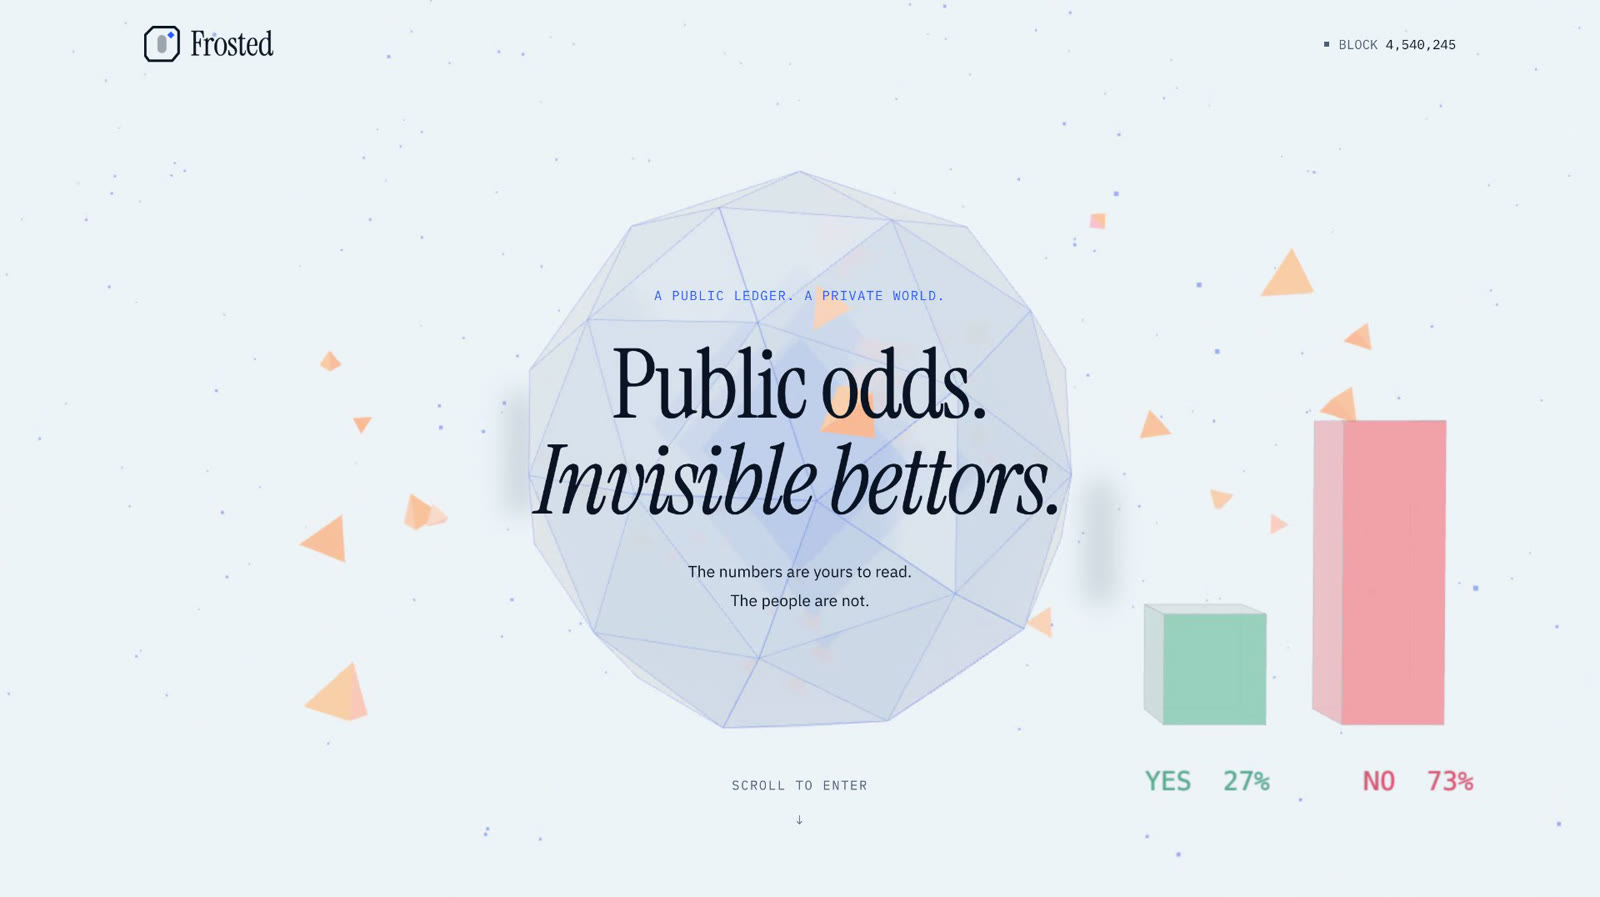
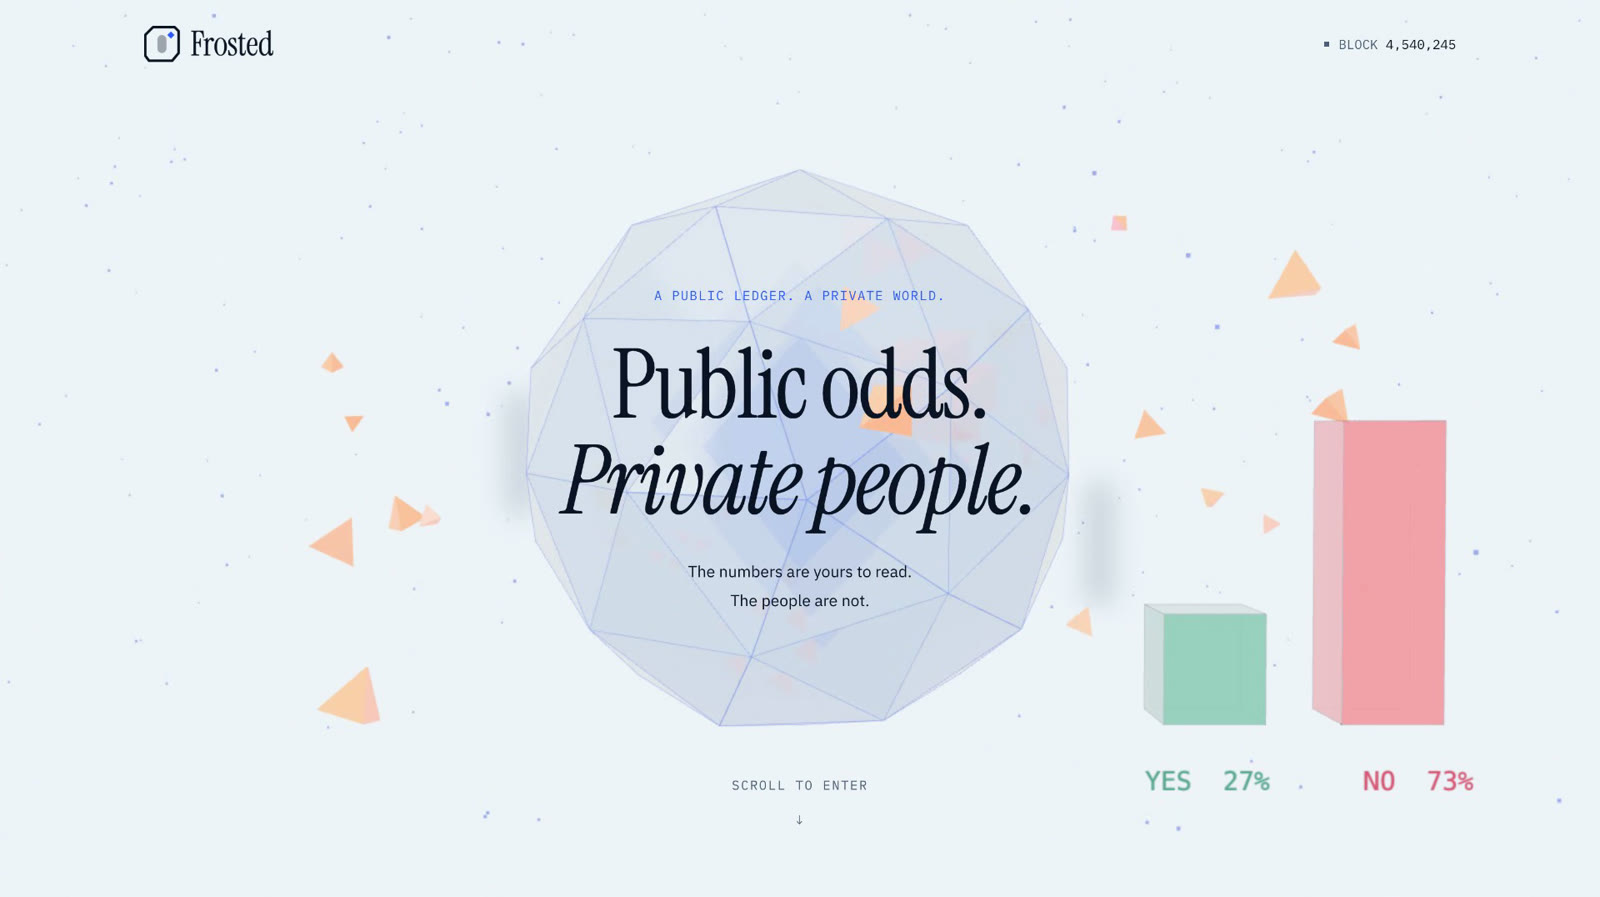
feat(web): new tagline "Public odds. Private people."

diff --git a/web/components/landing/Landing.tsx b/web/components/landing/Landing.tsx
@@ -158,7 +158,7 @@ export function Landing({ markets }: { markets?: ReactNode }) {
           <div ref={specimen} className="journey-specimen"><HeroVisual yes={odds.yes} no={odds.no} step={reduced ? 0 : step} journey={journey} onAvailabilityChange={setSceneReady} /></div>
           <div ref={prologue} className="journey-prologue">
             <p className="section-index">A PUBLIC LEDGER. A PRIVATE WORLD.</p>
-            <h1 id="hero-title" className="t-1">Public odds.{" "}<br /><em>Invisible bettors.</em></h1>
+            <h1 id="hero-title" className="t-1">Public odds.{" "}<br /><em>Private people.</em></h1>
             <p className="t-4">The numbers are yours to read.<br />The people are not.</p>
             <a href="#first-chapter" className="enter-frost num t-5" onClick={(event) => { const top = chapterStops.current[0]; if (top !== undefined) { event.preventDefault(); window.scrollTo({ top, behavior: "instant" }); } }}>SCROLL TO ENTER <span aria-hidden="true">↓</span></a>
           </div>

diff --git a/web/app/layout.tsx b/web/app/layout.tsx
@@ -17,7 +17,7 @@ import { navScreens } from "@/lib/screens";
 
 export const metadata: Metadata = {
   title: "Frosted",
-  description: "Public odds. Invisible bettors.",
+  description: "Public odds. Private people.",
 };
 
 export default function RootLayout({ children }: { children: ReactNode }) {
@@ -39,7 +39,7 @@ export default function RootLayout({ children }: { children: ReactNode }) {
         <main id="main-content" className="site-main">{children}</main>
         <footer className="site-footer">
           <Link href="/" className="wordmark" aria-label="Frosted home"><Image src="/logo/frosted-logo.png" alt="Frosted" width={907} height={252} priority /></Link>
-          <p className="num t-5">PUBLIC ODDS. INVISIBLE BETTORS.</p>
+          <p className="num t-5">PUBLIC ODDS. PRIVATE PEOPLE.</p>
           <div className="flex gap-6 t-5"><Link href="/how">Trust & privacy</Link><span>Zcash testnet</span></div>
         </footer>
       </body>

diff --git a/web/tests/landing.test.tsx b/web/tests/landing.test.tsx
@@ -15,7 +15,7 @@ describe("frozen ledger landing", () => {
   it("keeps the mechanism readable and never invents market data while offline", () => {
     useOdds.mockReturnValue({ market: null, yes: null, no: null, poolZat: null });
     render(<Landing />);
-    expect(screen.getByRole("heading", { level: 1 }).textContent).toBe("Public odds. Invisible bettors.");
+    expect(screen.getByRole("heading", { level: 1 }).textContent).toBe("Public odds. Private people.");
     expect(screen.queryByRole("link", { name: /Skip to markets/ })).toBeNull();
     expect(screen.getByText("No open market available.")).toBeTruthy();
     expect(screen.getByText("A bet goes in.")).toBeTruthy();

diff --git a/docs/DESIGN.md b/docs/DESIGN.md
@@ -57,7 +57,7 @@ Sumber layar dan perilaku: `docs/PROJECT_SPEC_FROSTED.md` §16 (screen list), §
 - Di dalamnya: bar odds YES/NO market unggulan dari `GET /v1/markets`, bergerak saat SSE `odds_updated`.
 - Di belakang kaca: 5–8 siluet kapsul buram yang bergerak pelan (penaruh anonim).
 - Kursor mengurangi frost secara lokal, hanya memperjelas angka, **tidak pernah** siluet.
-- Tagline: "Public odds. Invisible bettors." + CTA "Browse markets" (accent) + "How it works" (ghost).
+- Tagline: "Public odds. Private people." + CTA "Browse markets" (accent) + "How it works" (ghost).
 
 ## 7. Animasi dan library
 
